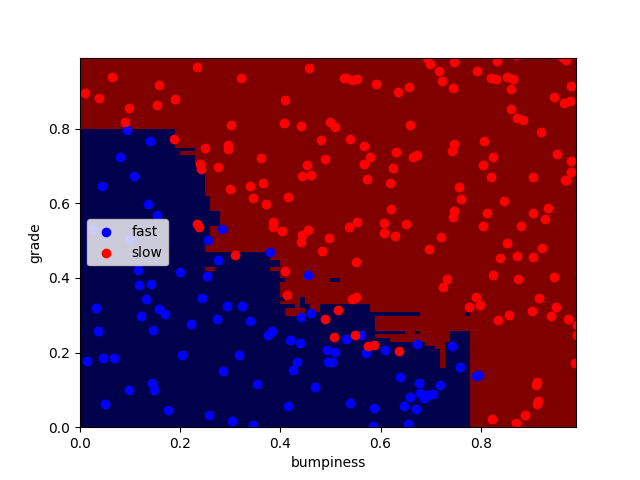
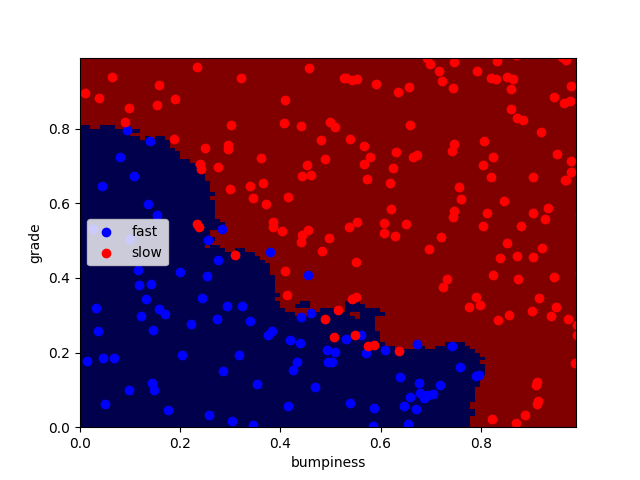
choose your own

diff --git a/choose_your_own/your_algorithm.py b/choose_your_own/your_algorithm.py
@@ -1,3 +1,5 @@
+#!/usr/bin/python
+
 import matplotlib.pyplot as plt
 from prep_terrain_data import makeTerrainData
 from class_vis import prettyPicture
@@ -5,9 +7,9 @@ from class_vis import prettyPicture
 features_train, labels_train, features_test, labels_test = makeTerrainData()
 
 
-### the training data (features_train, labels_train) have both "fast" and "slow" points mixed
-### in together--separate them so we can give them different colors in the scatterplot,
-### and visually identify them
+### the training data (features_train, labels_train) have both "fast" and "slow"
+### points mixed together--separate them so we can give them different colors
+### in the scatterplot and identify them visually
 grade_fast = [features_train[ii][0] for ii in range(0, len(features_train)) if labels_train[ii]==0]
 bumpy_fast = [features_train[ii][1] for ii in range(0, len(features_train)) if labels_train[ii]==0]
 grade_slow = [features_train[ii][0] for ii in range(0, len(features_train)) if labels_train[ii]==1]
@@ -22,154 +24,25 @@ plt.scatter(grade_slow, bumpy_slow, color = "r", label="slow")
 plt.legend()
 plt.xlabel("bumpiness")
 plt.ylabel("grade")
-#plt.show()
-#################################################################################
+plt.show()
+################################################################################
 
 
-from sklearn.ensemble import RandomForestClassifier
-from sklearn.ensemble import AdaBoostClassifier
+### your code here!  name your classifier object clf if you want the 
+### visualization code (prettyPicture) to show you the decision boundary
 from sklearn.neighbors import KNeighborsClassifier
-from sklearn.naive_bayes import GaussianNB
-from sklearn.svm import SVC
-
 from sklearn.metrics import accuracy_score
-
-best_algorithm = None
-best_accuracy_score = 0.0
-best_kwargs = None
-best_clf = None
-
-# Train a Random Forest Classifier
-
-kwargs = {
-	'n_estimators' : None,
-	'criterion' : None,
-	'max_features' : None,
-	'max_depth' : None,
-	'bootstrap' : None,
-	'n_jobs' : -1
-}
-
-for n_estimators in range(1, 20):
-	for criterion in ("gini", "entropy"):
-		for max_features in ("auto", "sqrt", "log2", None):
-			for max_depth in tuple(range(1, 11)) + (None,):
-				for bootstrap in (True, False):
-					kwargs['n_estimators'] = n_estimators
-					kwargs['criterion'] = criterion
-					kwargs['max_features'] = max_features
-					kwargs['max_depth'] = max_depth
-					kwargs['bootstrap'] = bootstrap
-
-					clf = RandomForestClassifier(**kwargs)
-					clf.fit(features_train, labels_train)
-					pred = clf.predict(features_test)
-
-					if accuracy_score(labels_test, pred) > best_accuracy_score:
-						best_accuracy_score = accuracy_score(labels_test, pred)
-						best_kwargs = kwargs
-						best_algorithm = 'RandomForest'
-						best_clf = clf
-
-# Train AdaBoost Classifier 
-
-kwargs = {
-	'n_estimators' : None,
-	'algorithm' : None
-}
-
-for n_estimators in range(40, 70):
-	for algorithm in ("SAMME", "SAMME.R"):
-		kwargs['n_estimators'] = n_estimators
-		kwargs['algorithm'] = algorithm
-
-		clf = AdaBoostClassifier(**kwargs)
-		clf.fit(features_train, labels_train)
-		pred = clf.predict(features_test)
-
-		if accuracy_score(labels_test, pred) > best_accuracy_score:
-			best_accuracy_score = accuracy_score(labels_test, pred)
-			best_kwargs = kwargs
-			best_algorithm = 'AdaBoost'
-			best_clf = clf
-
-# Train k-Nearest Neighbors Classifier
-
-kwargs = {
-	'n_neighbors' : None,
-	'weights' : None,
-	'algorithm' : None,
-	'p' : None
-}
-
-for n_neighbors in range(1, 11):
-	for weights in ('uniform', 'distance'):
-		for algorithm in ("auto", "ball_tree", "kd_tree", "brute"):
-			for p in (1, 2, 3):
-				kwargs['n_neighbors'] = n_neighbors
-				kwargs['weights'] = weights
-				kwargs['algorithm'] = algorithm
-				kwargs['p'] = p
-
-				clf = KNeighborsClassifier(**kwargs)
-				clf.fit(features_train, labels_train)
-				pred = clf.predict(features_test)
-
-				if accuracy_score(labels_test, pred) > best_accuracy_score:
-					best_accuracy_score = accuracy_score(labels_test, pred)
-					best_kwargs = kwargs
-					best_algorithm = 'KNeighbors'
-					best_clf = clf
-
-# Train Naive Bayes Classifier
-
-kwargs = None
-
-clf = GaussianNB()
+clf = KNeighborsClassifier(n_neighbors=10,weights='distance', algorithm='brute',p=3)
 clf.fit(features_train, labels_train)
 pred = clf.predict(features_test)
+acc = accuracy_score(pred, labels_test)
+print acc
 
-if accuracy_score(labels_test, pred) > best_accuracy_score:
-	best_accuracy_score = accuracy_score(labels_test, pred)
-	best_kwargs = kwargs
-	best_algorithm = 'GaussianNB'
-	best_clf = clf
 
-# Train Support Vector Classifier
 
-kwargs = {
-	'C' : None,
-	'kernel' : None,
-	'probability' : None,
-	'shrinking' : None
-}
 
-import numpy as np
-
-for C in np.arange(1.0, 3.5, 0.5):
-	for kernel in ('linear', 'poly', 'rbf', 'sigmoid'):
-		for probability in (True, False):
-			for shrinking in (True, False):
-				kwargs['C'] = C
-				kwargs['kernel'] = kernel
-				kwargs['probability'] = probability
-				kwargs['shrinking'] = shrinking
-
-				clf = SVC(**kwargs)
-				clf.fit(features_train, labels_train)
-				pred = clf.predict(features_test)
-
-				if accuracy_score(labels_test, pred) > best_accuracy_score:
-					best_accuracy_score = accuracy_score(labels_test, pred)
-					best_kwargs = kwargs
-					best_algorithm = 'SVC'
-					best_clf = clf
-
-print "The best classifier is", best_algorithm
-print "With parameters:\n", best_kwargs
-print "Accuracy:", best_accuracy_score
 
 try:
-    prettyPicture(best_clf, features_test, labels_test)
+    prettyPicture(clf, features_test, labels_test)
 except NameError:
-	pass
+    pass
